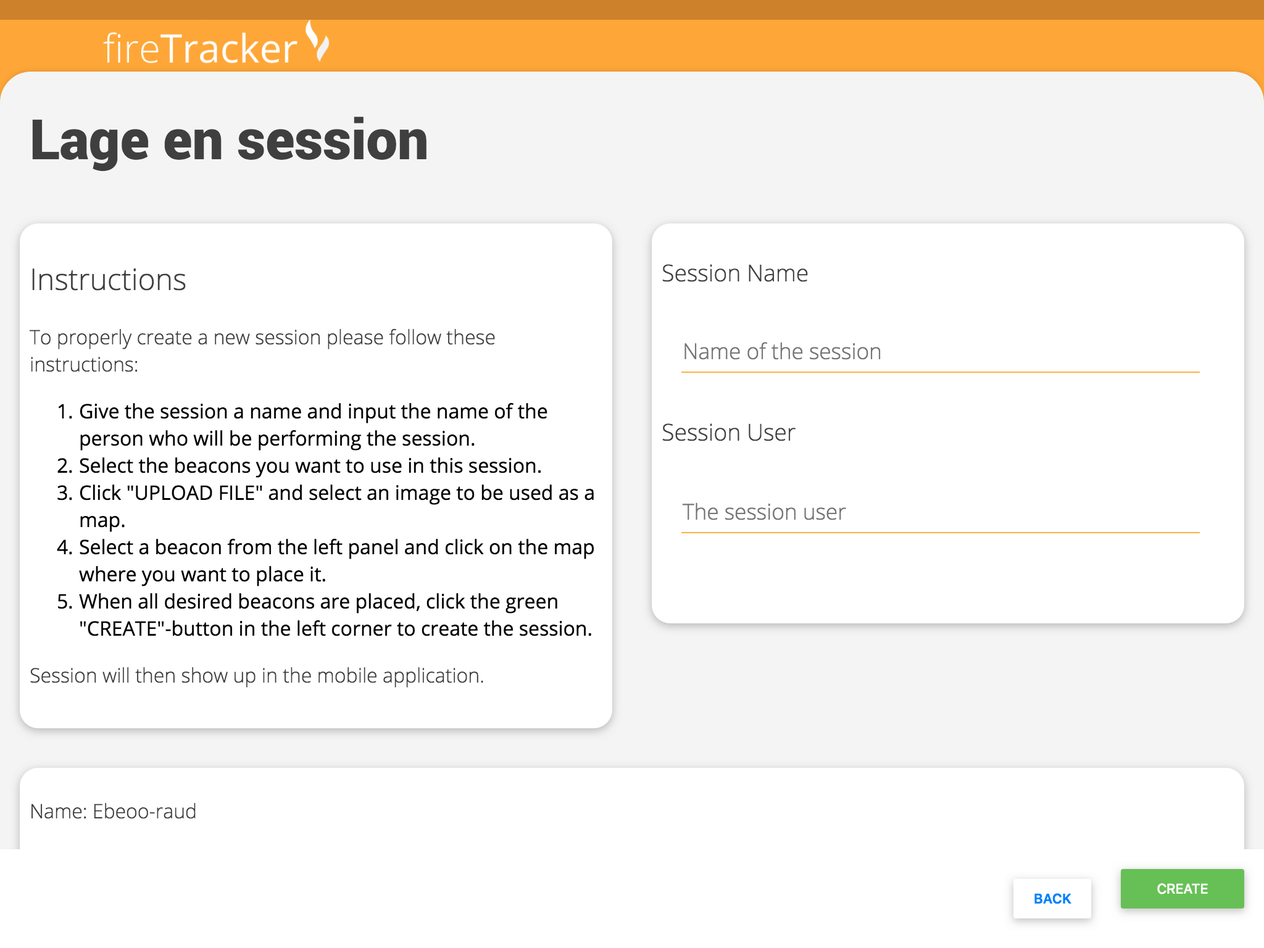
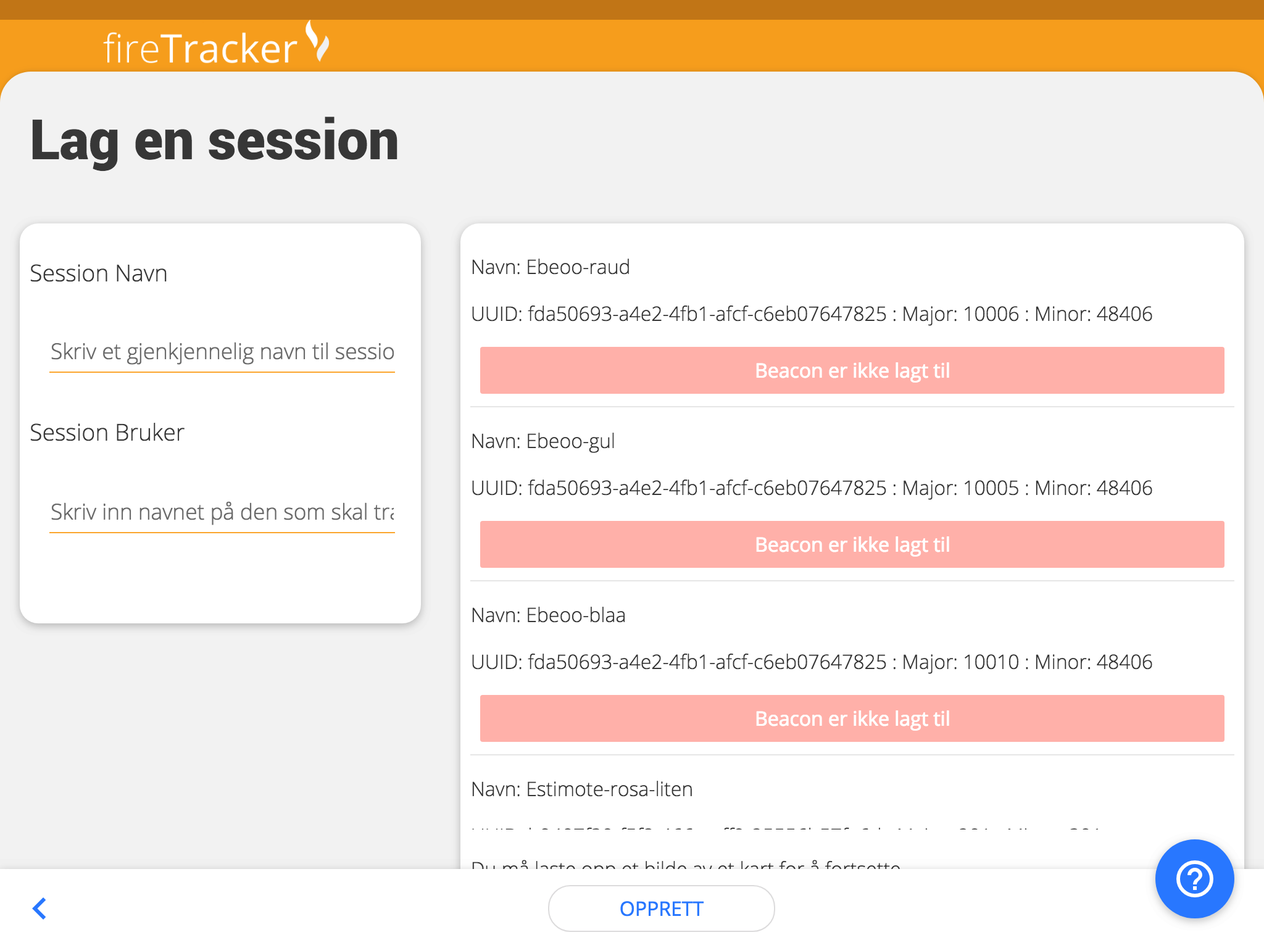
added new styling for available beacons list in CreateSession

diff --git a/src/styles/index.css b/src/styles/index.css
@@ -1,1 +1,1 @@
-body{margin:0;font-family:'Open Sans', sans-serif;background:#f4f4f4;height:100vh}h1,h2,h3,h4,h5,h6,p,a{font-family:'Open Sans', sans-serif;font-weight:200;color:#3f3f3f}h1{font-size:2.8em}.font-header{font-weight:400 !important;letter-spacing:1px;font-size:2.5em;margin:0;color:#636363}a{text-decoration:none}hr{margin:10px 0 10px 0;background-color:#000;height:1px;border-style:none;opacity:0.1;width:100%}input,button{border:none}.rounded-container{position:relative;background-color:#f4f4f4;bottom:25px;width:100%;border-radius:25px 25px 0 0;box-shadow:0 -1px 4px 0 rgba(0,0,0,0.1)}.container{display:flex;flex-wrap:wrap}.plot-map-card{max-width:640px;padding-bottom:32px;min-height:620px;min-width:640px}.plot-container{min-height:300px;min-width:300px;justify-content:center;align-self:center}.prev-button{border-radius:2px;box-shadow:0 2px 10px 0 rgba(0,0,0,0.15),0 2px 10px 0 rgba(0,0,0,0.1);background-color:#ffd75c;width:100px;height:32px;text-align:center;color:white;text-transform:uppercase;padding:0 1rem;vertical-align:middle;line-height:32px;font-weight:400;transition:box-shadow .2s, opacity .2s;cursor:pointer}.green-button{border-radius:2px;box-shadow:0 2px 10px 0 rgba(0,0,0,0.15),0 2px 10px 0 rgba(0,0,0,0.1);background-color:#72c04d;max-width:100px;height:32px;text-align:center;color:white;text-transform:uppercase;padding:0 1rem;vertical-align:middle;line-height:32px;font-weight:400;transition:box-shadow .2s, opacity .2s;cursor:pointer}.green-button:hover{box-shadow:0 2px 31px 0 rgba(0,0,0,0.15),0 2px 19px 0 rgba(0,0,0,0.1);opacity:0.8}.red-button{border-radius:2px;box-shadow:0 2px 10px 0 rgba(0,0,0,0.15),0 2px 10px 0 rgba(0,0,0,0.1);background-color:#ff6f5e;max-width:100px;height:32px;text-align:center;color:white;text-transform:uppercase;padding:0 1rem;vertical-align:middle;line-height:32px;font-weight:400;transition:box-shadow .2s, opacity .2s;cursor:pointer}.red-button:hover{box-shadow:0 2px 31px 0 rgba(0,0,0,0.15),0 2px 19px 0 rgba(0,0,0,0.1);opacity:0.8}.yellow-button{border-radius:2px;box-shadow:0 2px 31px 0 rgba(0,0,0,0.15),0 2px 19px 0 rgba(0,0,0,0.1);background-color:#ffd75c;max-width:100px;height:32px;text-align:center;color:white;text-transform:uppercase;padding:0 1rem;vertical-align:middle;line-height:32px;font-weight:400;transition:box-shadow .2s, opacity .2s;cursor:pointer}.yellow-button:hover{box-shadow:0 2px 31px 0 rgba(0,0,0,0.15),0 2px 19px 0 rgba(0,0,0,0.1);opacity:0.8}.beacon-selected{background-color:rgba(0,0,0,0.4)}.fixed-footer-menu{position:fixed;display:flex;bottom:0;left:0;right:0;padding:8px;background-color:white;justify-content:flex-end;z-index:100;box-shadow:0 2px 10px 0 rgba(0,0,0,0.15),0 2px 10px 0 rgba(0,0,0,0.1)}.arrow-back-btn{border-radius:50%;height:48px;width:48px;color:#2e82ff;transition:box-shadow .2s, background-color .2s;cursor:pointer}.arrow-back-btn i{margin-left:6px;margin-top:6px}.arrow-back-btn:hover{background-color:rgba(0,0,0,0.12)}.create-session-btn{margin:auto;max-width:150px;height:36px;text-align:center;text-transform:uppercase;padding:0 1rem;vertical-align:middle;line-height:36px;font-weight:400;cursor:pointer;border:1px solid #e0e0e0;border-radius:18px;color:#2e82ff;transition:box-shadow .2s, background-color .2s}.create-session-btn:hover{background-color:rgba(0,0,0,0.12)}.material-icons.md-18{font-size:18px}.material-icons.md-24{font-size:24px}.material-icons.md-36{font-size:36px}.material-icons.md-48{font-size:48px}.material-icons.md-60{font-size:60px}#manual-select-arrow-down{margin-top:auto}.play-start-fab-button{border-radius:50%;box-shadow:0 2px 10px 0 rgba(0,0,0,0.15),0 2px 10px 0 rgba(0,0,0,0.1);height:64px;width:64px;color:white;text-transform:uppercase;vertical-align:middle;line-height:32px;font-weight:400;transition:box-shadow .2s, opacity .2s;cursor:pointer}.play-start-fab-button i{margin-left:8px;margin-top:8px}.play-start-fab-button:hover{box-shadow:0 2px 31px 0 rgba(0,0,0,0.15),0 2px 19px 0 rgba(0,0,0,0.1);opacity:0.9}.manual-fab-button{border-radius:50%;box-shadow:0 2px 10px 0 rgba(0,0,0,0.15),0 2px 10px 0 rgba(0,0,0,0.1);background-color:#f7a71d;height:48px;width:48px;color:white;text-transform:uppercase;vertical-align:middle;line-height:32px;font-weight:400;transition:box-shadow .2s, opacity .2s;cursor:pointer}.manual-fab-button i{margin-left:12px;margin-top:12px}.manual-fab-button:hover{box-shadow:0 2px 31px 0 rgba(0,0,0,0.15),0 2px 19px 0 rgba(0,0,0,0.1);opacity:0.9}.manual-blue-fixed-button{border-radius:50%;box-shadow:0 2px 10px 0 rgba(0,0,0,0.15),0 2px 10px 0 rgba(0,0,0,0.1);background-color:#2e82ff;height:64px;width:64px;color:white;text-transform:uppercase;vertical-align:middle;line-height:32px;font-weight:400;transition:box-shadow .2s, opacity .2s;cursor:pointer;position:fixed;bottom:0;right:0;z-index:100}.manual-blue-fixed-button i{margin-left:14px;margin-top:14px}.manual-blue-fixed-button:hover{box-shadow:0 2px 31px 0 rgba(0,0,0,0.15),0 2px 19px 0 rgba(0,0,0,0.1);opacity:0.9}.manual-element{margin-bottom:100px}.green-marked{padding:8px;background-color:rgba(114,192,77,0.5);border-radius:2px;text-align:center;margin:8px;color:white}.red-marked{padding:8px;background-color:rgba(255,111,94,0.5);border-radius:2px;text-align:center;margin:8px;color:white}.gray-marked{background-color:rgba(0,0,0,0.1) !important;opacity:1 !important}.yellow-marked{background-color:rgba(255,215,92,0.5);padding:8px;border-radius:2px;text-align:center;margin:8px;color:white}.blue-marked{background-color:rgba(46,130,255,0.5);padding:8px;border-radius:2px;text-align:center;margin:8px;color:white}.card{background-color:#fff;border-radius:15px;box-shadow:0 2px 10px 0 rgba(0,0,0,0.15),0 2px 10px 0 rgba(0,0,0,0.1);padding:8px 8px 16px 8px;transition:box-shadow .2s, transform .2s;margin:16px;z-index:0;opacity:1;animation-iteration-count:1;animation-timing-function:ease-in;animation-duration:.2s;display:flex;flex-direction:column}.home-session-btn{height:100%;max-width:100%;flex:1;position:relative;top:0;transition:filter 0.5s ease;filter:grayscale(100%)}.home-session-btn div{position:absolute;bottom:5px;background-color:rgba(0,0,0,0.5);width:100%}.open-session-img{border-radius:15px 0 0 15px;max-width:100%;box-shadow:0 2px 31px 0 rgba(0,0,0,0.15),0 2px 19px 0 rgba(0,0,0,0.1)}.create-session-img{border-radius:0 15px 15px 0;max-width:100%;box-shadow:0 2px 31px 0 rgba(0,0,0,0.15),0 2px 19px 0 rgba(0,0,0,0.1);object-fit:cover}.home-session-btn:hover{filter:grayscale(0%)}.home-session-btn div h1{font-weight:300;color:#fff;margin-left:1em;font-size:2em}.open-session-div{border-radius:0 0 0 15px}.create-session-div{border-radius:0 0 15px 0}.session-card{width:300px}.session-img-wrapper{height:150px;width:100%;border-radius:15px 15px 0 0;transition:filter 0.5s ease;overflow:hidden}.session-img-wrapper img{zoom:1;object-fit:cover;width:100%;height:200%}.session-card img:hover{filter:invert(30%)}.play-locations{position:relative;top:48px;height:0}.bg-color-accent{background-color:#2e82ff}.bg-color-accent-dark{background-color:#2567C9}.bg-color-accent *{color:#fff}.width-max-content{width:max-content;width:intrinsic;width:intrinsic;width:-moz-max-content;width:-webkit-max-content}.border-radius15px{border-radius:15px}.overflow-scroll-y{overflow-y:scroll;-webkit-overflow-scrolling:touch}.height-100percent{height:100%}.min-height-maxview{min-height:100vh}.min-height-70vh{min-height:70vh}.min-height-50px{min-height:50px}.max-height-600{max-height:600px}.max-height-400{max-height:400px}.max-height-300{max-height:300px}.min-width-300{min-width:300px}.max-width-300{max-width:300px}.max-width-600{max-width:600px}.padding0px{padding:0}.padding8px{padding:8px}.margin8px{margin:8px}.margin24px{margin:24px}.flex-1{flex:1}.flex-2{flex:2}.plot-map{width:inherit;height:inherit;position:absolute;margin-top:16px;z-index:10}.flex-container-column-direction{flex-direction:column}.flex-container-row-direction{flex-direction:row}.flex-container-center{align-items:center;justify-content:center}.flex-container-vertical-center{align-items:center}.flex-container-horizontal-center{justify-content:center}.flex-container-align-start{justify-content:flex-start}.space-between{justify-content:space-between}.fade-in{animation-name:fadeInOpacity;animation-iteration-count:1;animation-timing-function:ease-in;animation-duration:.3s}.fixing-the-fixed-footer-shit{height:64px;width:100%}.flex-align-self-end{align-self:flex-end}.flex-align-items-center{align-items:center}.flex-align-items-end{align-items:flex-end}.roboto-black{font-family:"Roboto", sans-serif;font-weight:900;text-align:start}.bottom-fixed{position:fixed;bottom:0}.rounded-container-position-correction-50px{top:50px}.rounded-container-position-correction-25px{top:25px}.add-padd{padding-bottom:100px}.current-mark{border-radius:50%;background-color:red;height:12px;width:12px;border:solid 1px #fbb033}.last-pos-mark{border-radius:50%;background-color:lightblue;height:10px;width:10px;border:solid 1px #fbb033}.pos-mark{border-radius:50%;background-color:black;height:16px;width:16px}.beacon-mark{border-radius:50%;background-color:#2e82ff;height:12px;width:12px}.white-dot{height:8px;width:8px;background-color:#FFF;margin:2px;border-radius:50%}.gray-dot{height:8px;width:8px;background-color:rgba(0,0,0,0.4);margin:2px;border-radius:50%}@keyframes fadeInOpacity{0%{opacity:0}100%{opacity:1}}.ipad-wrapper{width:600px;height:500px}.ipad-frame{box-shadow:0 2px 31px 0 rgba(0,0,0,0.5),0 2px 19px 0 rgba(0,0,0,0.1);border-radius:28px;background-color:#252525;border:5px solid #3d3d3d;position:relative;padding-bottom:75%}.ipad-image-wrapper{position:absolute;top:4%;bottom:4%;left:6%;right:6%;border-radius:2px}.ipad-image-wrapper img{width:100%;height:100%;border-radius:2px}.mobile-wrapper{width:200px;height:400px}.mobile-frame{box-shadow:0 2px 31px 0 rgba(0,0,0,0.5),0 2px 19px 0 rgba(0,0,0,0.1);height:100%;border-radius:20px;background-color:#252525;border:2px solid #3d3d3d;position:relative}.mobile-image-wrapper{position:absolute;top:4%;bottom:4%;left:3%;right:3%;border-radius:2px}.mobile-image-wrapper img{width:100%;height:100%;border-radius:14px}@media only screen and (max-width: 710px){.home-session-btn{margin:8px}.open-session-img{border-radius:15px}.create-session-img{border-radius:15px}.home-session-btn div{border-radius:0 0 15px 15px}.plot-map-card{min-width:80vw}}@media only screen and (max-width: 620px){.list-icon{display:none}.ipad-wrapper{width:300px;height:200px}.mobile-wrapper{width:200px;height:400px}}@media only screen and (min-width: 710px) and (max-width: 1120px){.plot-map-card{min-width:600px}}
+body{margin:0;font-family:'Open Sans', sans-serif;background:#f4f4f4;height:100vh}h1,h2,h3,h4,h5,h6,p,a{font-family:'Open Sans', sans-serif;font-weight:200;color:#3f3f3f}h1{font-size:2.8em}.font-header{font-weight:400 !important;letter-spacing:1px;font-size:2.5em;margin:0;color:#636363}a{text-decoration:none}hr{margin:10px 0 10px 0;background-color:#000;height:1px;border-style:none;opacity:0.1;width:100%}input,button{border:none}.rounded-container{position:relative;background-color:#f4f4f4;bottom:25px;width:100%;border-radius:25px 25px 0 0;box-shadow:0 -1px 4px 0 rgba(0,0,0,0.1)}.container{display:flex;flex-wrap:wrap}.plot-map-card{max-width:640px;padding-bottom:32px;min-height:620px;min-width:640px}.plot-container{min-height:300px;min-width:300px;justify-content:center;align-self:center}.prev-button{border-radius:2px;box-shadow:0 2px 10px 0 rgba(0,0,0,0.15),0 2px 10px 0 rgba(0,0,0,0.1);background-color:#ffd75c;width:100px;height:32px;text-align:center;color:white;text-transform:uppercase;padding:0 1rem;vertical-align:middle;line-height:32px;font-weight:400;transition:box-shadow .2s, opacity .2s;cursor:pointer}.green-button{border-radius:2px;box-shadow:0 2px 10px 0 rgba(0,0,0,0.15),0 2px 10px 0 rgba(0,0,0,0.1);background-color:#84e35e;max-width:100px;height:32px;text-align:center;color:white;text-transform:uppercase;padding:0 1rem;vertical-align:middle;line-height:32px;font-weight:400;transition:box-shadow .2s, opacity .2s;cursor:pointer}.green-button:hover{box-shadow:0 2px 31px 0 rgba(0,0,0,0.15),0 2px 19px 0 rgba(0,0,0,0.1);opacity:0.8}.red-button{border-radius:2px;box-shadow:0 2px 10px 0 rgba(0,0,0,0.15),0 2px 10px 0 rgba(0,0,0,0.1);background-color:#ff6f5e;max-width:100px;height:32px;text-align:center;color:white;text-transform:uppercase;padding:0 1rem;vertical-align:middle;line-height:32px;font-weight:400;transition:box-shadow .2s, opacity .2s;cursor:pointer}.red-button:hover{box-shadow:0 2px 31px 0 rgba(0,0,0,0.15),0 2px 19px 0 rgba(0,0,0,0.1);opacity:0.8}.yellow-button{border-radius:2px;box-shadow:0 2px 31px 0 rgba(0,0,0,0.15),0 2px 19px 0 rgba(0,0,0,0.1);background-color:#ffd75c;max-width:100px;height:32px;text-align:center;color:white;text-transform:uppercase;padding:0 1rem;vertical-align:middle;line-height:32px;font-weight:400;transition:box-shadow .2s, opacity .2s;cursor:pointer}.yellow-button:hover{box-shadow:0 2px 31px 0 rgba(0,0,0,0.15),0 2px 19px 0 rgba(0,0,0,0.1);opacity:0.8}.beacon-selected{background-color:rgba(0,0,0,0.4)}.fixed-footer-menu{position:fixed;display:flex;bottom:0;left:0;right:0;padding:8px;background-color:white;justify-content:flex-end;z-index:100;box-shadow:0 2px 10px 0 rgba(0,0,0,0.15),0 2px 10px 0 rgba(0,0,0,0.1)}.arrow-back-btn{border-radius:50%;height:48px;width:48px;color:#2e82ff;transition:box-shadow .2s, background-color .2s;cursor:pointer}.arrow-back-btn i{margin-left:6px;margin-top:6px}.arrow-back-btn:hover{background-color:rgba(0,0,0,0.12)}.create-session-btn{margin:auto;max-width:150px;height:36px;text-align:center;text-transform:uppercase;padding:0 1rem;vertical-align:middle;line-height:36px;font-weight:400;cursor:pointer;border:1px solid #e0e0e0;border-radius:18px;color:#2e82ff;transition:box-shadow .2s, background-color .2s}.btn-rounded{min-width:70px;max-width:200px;height:36px;text-align:center;text-transform:uppercase;padding:0 1rem;vertical-align:middle;line-height:36px;font-weight:400;cursor:pointer;border:1px solid #e0e0e0;border-radius:18px;color:#2e82ff;margin:4px;transition:box-shadow .2s, background-color .2s}.btn-red-color{min-width:70px;max-width:150px;height:36px;text-align:center;text-transform:uppercase;padding:0 1rem;vertical-align:middle;line-height:36px;font-weight:400;cursor:pointer;border:1px solid #e0e0e0;border-radius:18px;color:#ff6f5e;margin:4px;transition:box-shadow .2s, background-color .2s}.create-session-btn:hover{background-color:rgba(0,0,0,0.12)}.btn-rounded:hover{background-color:rgba(0,0,0,0.12)}.btn-red-color:hover{background-color:rgba(0,0,0,0.12)}.material-icons.md-18{font-size:18px}.material-icons.md-24{font-size:24px}.material-icons.md-36{font-size:36px}.material-icons.md-48{font-size:48px}.material-icons.md-60{font-size:60px}#manual-select-arrow-down{margin-top:auto}.play-start-fab-button{border-radius:50%;box-shadow:0 2px 10px 0 rgba(0,0,0,0.15),0 2px 10px 0 rgba(0,0,0,0.1);height:64px;width:64px;color:white;text-transform:uppercase;vertical-align:middle;line-height:32px;font-weight:400;transition:box-shadow .2s, opacity .2s;cursor:pointer}.play-start-fab-button i{margin-left:8px;margin-top:8px}.play-start-fab-button:hover{box-shadow:0 2px 31px 0 rgba(0,0,0,0.15),0 2px 19px 0 rgba(0,0,0,0.1);opacity:0.9}.manual-fab-button{border-radius:50%;box-shadow:0 2px 10px 0 rgba(0,0,0,0.15),0 2px 10px 0 rgba(0,0,0,0.1);background-color:#f7a71d;height:48px;width:48px;color:white;text-transform:uppercase;vertical-align:middle;line-height:32px;font-weight:400;transition:box-shadow .2s, opacity .2s;cursor:pointer}.manual-fab-button i{margin-left:12px;margin-top:12px}.manual-fab-button:hover{box-shadow:0 2px 31px 0 rgba(0,0,0,0.15),0 2px 19px 0 rgba(0,0,0,0.1);opacity:0.9}.manual-blue-fixed-button{border-radius:50%;box-shadow:0 2px 10px 0 rgba(0,0,0,0.15),0 2px 10px 0 rgba(0,0,0,0.1);background-color:#2e82ff;height:64px;width:64px;color:white;text-transform:uppercase;vertical-align:middle;line-height:32px;font-weight:400;transition:box-shadow .2s, opacity .2s;cursor:pointer;position:fixed;bottom:0;right:0;z-index:100}.manual-blue-fixed-button i{margin-left:14px;margin-top:14px}.manual-blue-fixed-button:hover{box-shadow:0 2px 31px 0 rgba(0,0,0,0.15),0 2px 19px 0 rgba(0,0,0,0.1);opacity:0.9}.manual-element{margin-bottom:100px}.green-marked{padding:8px;background-color:rgba(114,192,77,0.5);border-radius:2px;text-align:center;margin:8px;color:white}.red-marked{padding:8px;background-color:rgba(255,111,94,0.5);border-radius:2px;text-align:center;margin:8px;color:white}.gray-marked{background-color:rgba(0,0,0,0.1) !important;opacity:1 !important}.yellow-marked{background-color:rgba(255,215,92,0.5);padding:8px;border-radius:2px;text-align:center;margin:8px;color:white}.blue-marked{background-color:rgba(46,130,255,0.5);padding:8px;border-radius:2px;text-align:center;margin:8px;color:white}.card{background-color:#fff;border-radius:15px;box-shadow:0 2px 10px 0 rgba(0,0,0,0.15),0 2px 10px 0 rgba(0,0,0,0.1);padding:8px 8px 16px 8px;transition:box-shadow .2s, transform .2s;margin:16px;z-index:0;opacity:1;animation-iteration-count:1;animation-timing-function:ease-in;animation-duration:.2s;display:flex;flex-direction:column}.bt-symbol{border-radius:50%;box-shadow:0 2px 10px 0 rgba(0,0,0,0.15),0 2px 10px 0 rgba(0,0,0,0.1);background-color:#2e82ff;height:36px;width:36px;color:white;text-transform:uppercase;vertical-align:middle;line-height:32px;font-weight:400;z-index:100}.bt-symbol i{margin-left:7px;margin-top:6px}.bt-symbol-non-marked{background-color:#c8c8c8 !important}.home-session-btn{height:100%;max-width:100%;flex:1;position:relative;top:0;transition:filter 0.5s ease;filter:grayscale(100%)}.home-session-btn div{position:absolute;bottom:5px;background-color:rgba(0,0,0,0.5);width:100%}.open-session-img{border-radius:15px 0 0 15px;max-width:100%;box-shadow:0 2px 31px 0 rgba(0,0,0,0.15),0 2px 19px 0 rgba(0,0,0,0.1)}.create-session-img{border-radius:0 15px 15px 0;max-width:100%;box-shadow:0 2px 31px 0 rgba(0,0,0,0.15),0 2px 19px 0 rgba(0,0,0,0.1);object-fit:cover}.home-session-btn:hover{filter:grayscale(0%)}.home-session-btn div h1{font-weight:300;color:#fff;margin-left:1em;font-size:2em}.open-session-div{border-radius:0 0 0 15px}.create-session-div{border-radius:0 0 15px 0}.session-card{width:300px}.session-img-wrapper{height:150px;width:100%;border-radius:15px 15px 0 0;transition:filter 0.5s ease;overflow:hidden}.session-img-wrapper img{zoom:1;object-fit:cover;width:100%;height:200%}.session-card img:hover{filter:invert(30%)}.play-locations{position:relative;top:48px;height:0}.avail-beacon-element{border-radius:15px;padding:8px;margin:8px 0 8px 0;border:1px solid #e0e0e0}.beacon-element-marked{border:1px solid #84e35e;background-color:#f2ffed}.avail-beacon-element>div{justify-content:space-between}.bg-color-accent{background-color:#2e82ff}.bg-color-accent-dark{background-color:#2567C9}.bg-color-accent *{color:#fff}.width-max-content{width:max-content;width:intrinsic;width:intrinsic;width:-moz-max-content;width:-webkit-max-content}.border-radius15px{border-radius:15px}.overflow-scroll-y{overflow-y:scroll;-webkit-overflow-scrolling:touch}.height-100percent{height:100%}.min-height-maxview{min-height:100vh}.min-height-70vh{min-height:70vh}.min-height-50px{min-height:50px}.max-height-600{max-height:600px}.max-height-400{max-height:400px}.max-height-300{max-height:300px}.min-width-300{min-width:300px}.min-width-600-m{min-width:600px}.max-width-300{max-width:300px}.max-width-600{max-width:600px}.padding0px{padding:0}.padding8px{padding:8px}.margin8px{margin:8px}.margin24px{margin:24px}.flex-1{flex:1}.flex-2{flex:2}.plot-map{width:inherit;height:inherit;position:absolute;margin-top:16px;z-index:10}.flex-container-column-direction{flex-direction:column}.flex-container-row-direction{flex-direction:row}.flex-container-center{align-items:center;justify-content:center}.flex-container-vertical-center{align-items:center}.flex-container-horizontal-center{justify-content:center}.flex-container-align-start{justify-content:flex-start}.space-between{justify-content:space-between}.fade-in{animation-name:fadeInOpacity;animation-iteration-count:1;animation-timing-function:ease-in;animation-duration:.3s}.fixing-the-fixed-footer-shit{height:64px;width:100%}.flex-align-self-end{align-self:flex-end}.flex-align-items-center{align-items:center}.flex-align-items-end{align-items:flex-end}.roboto-black{font-family:"Roboto", sans-serif;font-weight:900;text-align:start}.bottom-fixed{position:fixed;bottom:0}.rounded-container-position-correction-50px{top:50px}.rounded-container-position-correction-25px{top:25px}.add-padd{padding-bottom:100px}.current-mark{border-radius:50%;background-color:red;height:12px;width:12px;border:solid 1px #fbb033}.last-pos-mark{border-radius:50%;background-color:lightblue;height:10px;width:10px;border:solid 1px #fbb033}.pos-mark{border-radius:50%;background-color:black;height:16px;width:16px}.beacon-mark{border-radius:50%;background-color:#2e82ff;height:12px;width:12px}.white-dot{height:8px;width:8px;background-color:#FFF;margin:2px;border-radius:50%}.gray-dot{height:8px;width:8px;background-color:rgba(0,0,0,0.4);margin:2px;border-radius:50%}@keyframes fadeInOpacity{0%{opacity:0}100%{opacity:1}}.ipad-wrapper{width:600px;height:500px}.ipad-frame{box-shadow:0 2px 31px 0 rgba(0,0,0,0.5),0 2px 19px 0 rgba(0,0,0,0.1);border-radius:28px;background-color:#252525;border:5px solid #3d3d3d;position:relative;padding-bottom:75%}.ipad-image-wrapper{position:absolute;top:4%;bottom:4%;left:6%;right:6%;border-radius:2px}.ipad-image-wrapper img{width:100%;height:100%;border-radius:2px}.mobile-wrapper{width:200px;height:400px}.mobile-frame{box-shadow:0 2px 31px 0 rgba(0,0,0,0.5),0 2px 19px 0 rgba(0,0,0,0.1);height:100%;border-radius:20px;background-color:#252525;border:2px solid #3d3d3d;position:relative}.mobile-image-wrapper{position:absolute;top:4%;bottom:4%;left:3%;right:3%;border-radius:2px}.mobile-image-wrapper img{width:100%;height:100%;border-radius:14px}@media only screen and (max-width: 710px){.home-session-btn{margin:8px}.open-session-img{border-radius:15px}.create-session-img{border-radius:15px}.home-session-btn div{border-radius:0 0 15px 15px}.plot-map-card{min-width:80vw}}@media only screen and (max-width: 620px){.list-icon{display:none}.ipad-wrapper{width:300px;height:200px}.mobile-wrapper{width:200px;height:400px}.min-width-600-m{min-width:300px}}@media only screen and (min-width: 710px) and (max-width: 1120px){.plot-map-card{min-width:600px}}

diff --git a/src/styles/index.scss b/src/styles/index.scss
@@ -3,7 +3,8 @@ $colorPrimaryDark :  #c88116;
 $colorAccent : #2e82ff;
 $colorAccentDark : #2567C9;
 $colorDarkerGray : #AAAAAA;
-$appGreen :  #72c04d;
+$appGreen : #84e35e;
+$appGreen2 : #f2ffed;
 $appRed : #ff6f5e;
 $appWhite : #FFF;
 $appYellow: #ffd75c;
@@ -222,7 +223,51 @@ input, button { border:none; }
   transition: box-shadow .2s, background-color .2s;
 }
 
+.btn-rounded{
+  min-width: 70px;
+  max-width: 200px;
+  height: 36px;
+  text-align: center;
+  text-transform: uppercase;
+  padding: 0 1rem;
+  vertical-align: middle;
+  line-height: 36px;
+  font-weight: 400;
+  cursor: pointer;
+  border: 1px solid #e0e0e0;
+  border-radius: 18px;
+  color: $colorAccent;
+  margin:4px;
+  transition: box-shadow .2s, background-color .2s;
+}
+
+.btn-red-color{
+  min-width: 70px;
+  max-width: 150px;
+  height: 36px;
+  text-align: center;
+  text-transform: uppercase;
+  padding: 0 1rem;
+  vertical-align: middle;
+  line-height: 36px;
+  font-weight: 400;
+  cursor: pointer;
+  border: 1px solid #e0e0e0;
+  border-radius: 18px;
+  color: $appRed;
+  margin:4px;
+  transition: box-shadow .2s, background-color .2s;
+}
+
+
+
 .create-session-btn:hover {
+  background-color: rgba(0, 0, 0, 0.12);
+
+}.btn-rounded:hover {
+  background-color: rgba(0, 0, 0, 0.12);
+
+}.btn-red-color:hover {
   background-color: rgba(0, 0, 0, 0.12);
 
 }
@@ -393,6 +438,31 @@ input, button { border:none; }
 
 
 /*********************Special Elements***************/
+
+.bt-symbol{
+  border-radius: 50%;
+  box-shadow: 0 2px 10px 0 rgba(0,0,0,0.15), 0 2px 10px 0 rgba(0,0,0,0.1);
+  background-color: $colorAccent;
+  height:36px;
+  width: 36px;
+  color: white;
+  text-transform: uppercase;
+  vertical-align: middle;
+  line-height: 32px;
+  font-weight: 400;
+  z-index: 100;
+
+  i{
+    margin-left: 7px;
+    margin-top: 6px;
+  }
+}
+
+.bt-symbol-non-marked {
+  background-color: #c8c8c8 !important;
+
+}
+
 .home-session-btn {
   height: 100%;
   max-width: 100%;
@@ -476,6 +546,25 @@ input, button { border:none; }
   top: 48px;
   height: 0;
 }
+
+
+.avail-beacon-element {
+  border-radius: 15px;
+  padding: 8px;
+  margin:  8px 0 8px 0;
+  border: 1px solid #e0e0e0;
+}
+
+.beacon-element-marked{
+  border: 1px solid $appGreen;
+  background-color: $appGreen2;
+}
+
+
+.avail-beacon-element > div{
+justify-content: space-between;
+}
+
 /*********************Special Elements END***************/
 
 /*********************Modifiers*********************/
@@ -546,9 +635,14 @@ input, button { border:none; }
   max-height: 300px;
 }
 
+
+
 .min-width-300 {
   min-width: 300px;
 }
+.min-width-600-m {
+   min-width: 600px;
+ }
 
 .max-width-300 {
   max-width: 300px;
@@ -837,6 +931,10 @@ input, button { border:none; }
   .mobile-wrapper{
     width: 200px;
     height: 400px;
+  }
+
+  .min-width-600-m {
+    min-width: 300px;
   }
 }
 

diff --git a/src/components/AvailBeaconsList.js b/src/components/AvailBeaconsList.js
@@ -123,24 +123,38 @@ class AvailBeaconList extends React.Component {
 
         return(
 
-            <div className="overflow-scroll-y">
+            <div className="overflow-scroll-y flex-container-row-direction">
                 {
                     !isLoading && beacons.length > 0 ? beacons.map(beacon => {
                         const {id, name, uuid, major, minor} = beacon;
                         const BeaconComp = () => (
 
-                            <div className = {this.checkIfBeaconIsAlreadySelected(id) ? ("gray-marked") : ''}>
+                            <div className = {this.checkIfBeaconIsAlreadySelected(id) ? ("avail-beacon-element beacon-element-marked") : 'avail-beacon-element'}>
 
-                                <div key={id} onClick={() => this.addBeaconToSelectedList(id)}>
-                                    <p>Navn: {name}</p>
-                                    <p>UUID: {uuid} : Major: {major} : Minor: {minor}</p>
+                                <div className="container flex-container-row-direction"  key={id} onClick={() => this.addBeaconToSelectedList(id)}>
 
-                                    {this.checkIfBeaconIsAlreadySelected(id) ? (<div className = "green-marked">Beacon er lagt til</div>)
-                                        : (<div className = "red-marked">Beacon er ikke lagt til</div>)
+                                    {this.checkIfBeaconIsAlreadySelected(id) ? (<div className="bt-symbol ">
+                                            <i className="material-icons">bluetooth</i>
+                                        </div>)
+                                        : (<div className="bt-symbol bt-symbol-non-marked">
+                                            <i className="material-icons">bluetooth</i>
+                                        </div>)
 
                                     }
 
-                                    <hr/>
+
+
+                                    <h3>Navn: {name}</h3>
+
+                                    <div>
+                                    <div className = "btn-rounded">Tek. Info.</div>
+
+                                    {this.checkIfBeaconIsAlreadySelected(id) ? (<div className = "btn-red-color">Fjern</div>)
+                                        : (<div className = "btn-rounded">Legg til</div>)
+
+                                    }
+                                    </div>
+
                                 </div>
                             </div>
                         );

diff --git a/src/containers/CreateSession.js b/src/containers/CreateSession.js
@@ -42,10 +42,10 @@ class CreateSession extends React.Component {
             selectedBeacons : [],
             mapImgUrl : '',
 
-            isSessionNameLongEnough : false,
-            isSessionUserLongEnough : false,
+            isSessionNameLongEnough : true,
+            isSessionUserLongEnough : true,
 
-            isNameInputted : false,
+            isNameInputted : true,
             isBeaconsSelected : false,
             isMapUploaded : false,
             isBeaconsPlaced : false,
@@ -245,7 +245,7 @@ class CreateSession extends React.Component {
 
                     {/************************* Name and user input*****************************/}
 
-                    <div className="card fade-in flex-1 max-width-600 min-width-300 " >
+                    <div className="card fade-in flex-1 max-width-600 min-width-600-m " >
 
 
 
@@ -278,7 +278,7 @@ class CreateSession extends React.Component {
                     {/************************* ^Name and user input^^ *****************************/}
 
 
-                    {this.state.isNameInputted ?  <div className="card fade-in max-height-600 min-width-300 flex-2" ref={(el) => { this.AvailBeaconsRef = el;}}>
+                    {this.state.isNameInputted ?  <div className="card fade-in max-height-600 min-width-600-m flex-2" ref={(el) => { this.AvailBeaconsRef = el;}}>
                         <h2>Legg til beacons for "{this.state.sessionName}"-økten</h2>
                         <AvailBeaconsList callback={this.selectedAvailBeaconsCallback}/>
 
@@ -289,12 +289,12 @@ class CreateSession extends React.Component {
                         {this.state.selectedBeacons.length > 2
                             ?
 
-                            <div className="create-session-btn flex-2" onClick={evt => this.showUploadMap(evt)}> Neste </div> : ''}
+                            <div className="create-session-btn flex-2 " onClick={evt => this.showUploadMap(evt)}> Neste </div> : ''}
 
                     </div> : ''}
 
 
-                    {this.state.isBeaconsSelected ?  <div className="card fade-in max-height-600 min-width-300 flex-2">
+                    {this.state.isBeaconsSelected ?  <div className="card fade-in max-height-600 max-width-600 min-width-300 flex-2">
                         <h4> Du må laste opp et bilde av et kart for å fortsette.</h4>
                         <input id="myInput"
                                type="file"
